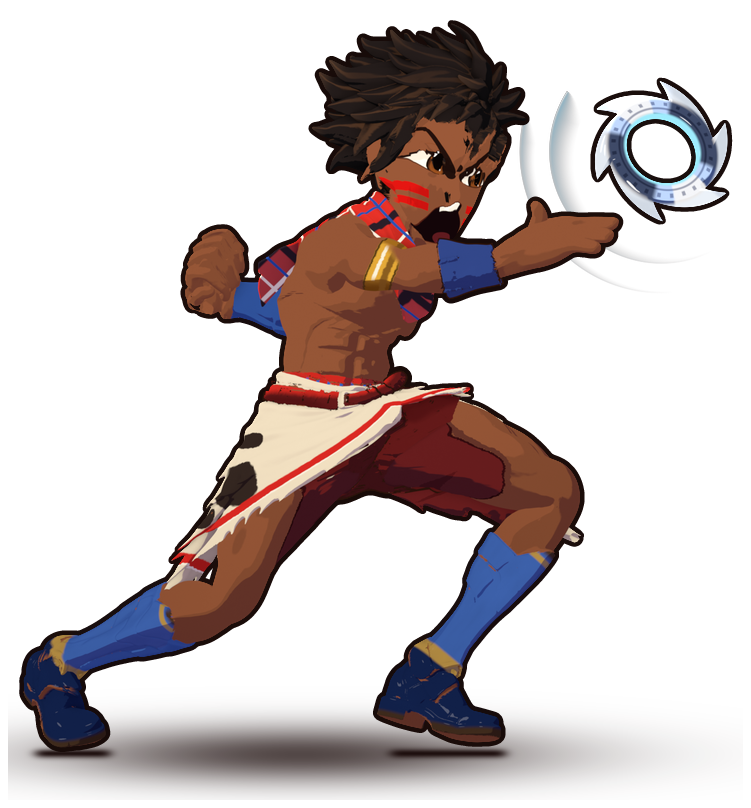
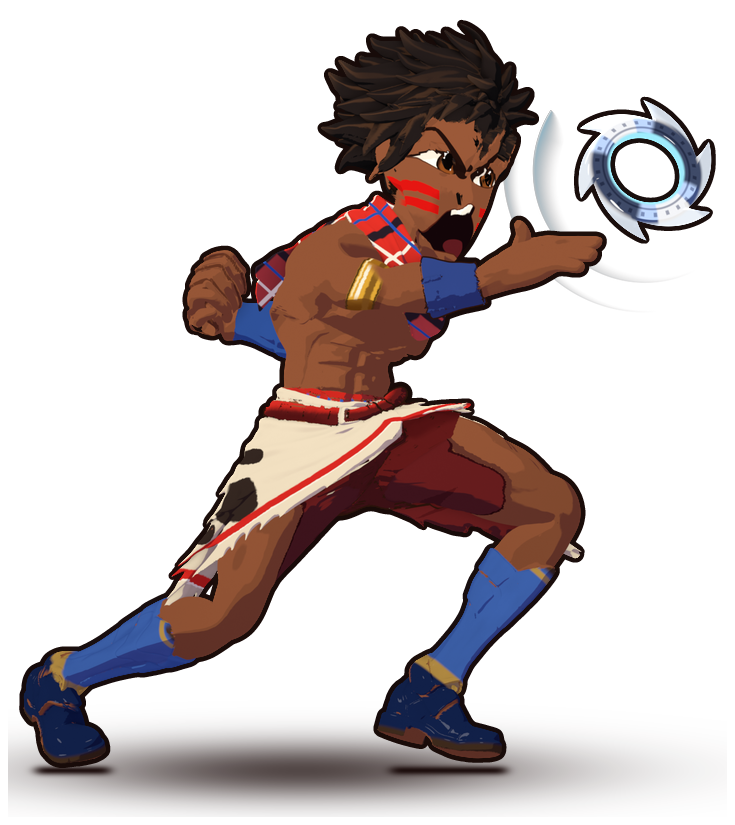
Hero key art k34 (won its A/B against k27 with both blind judges): a package of two changes that had each split the judges. The build: chest and lats about 20% wider and deeper, a less pinched waist, the spine 6% longer, longer collarbones, a thicker neck and forearms, with the upper arms kept at th

Changed region(s): [[0.0299, 0.0, 0.9878, 0.9592], [0.0599, 0.8663, 0.1497, 0.9592], [0.5088, 0.9282, 0.5388, 0.9592]]

diff --git a/New/tools/art/blender/hero_toon_aaa.py b/New/tools/art/blender/hero_toon_aaa.py
@@ -157,6 +157,12 @@ HEM_W = 0.0024
 HEM_SHADOW = 0.0055
 WRAP_FOLD = ((-0.05, -0.035), (0.035, -0.08))
 WRAP_FOLD_W = 0.0065
+## (key art k33, "the back fist a brown lump with fur-like smudges, no finger or knuckle planes: a rock, a mitten"; "four
+## clear finger blocks and a thumb wrap, a crisp shadow under the knuckles") the back (left) fist in the skin's clean
+## language: its surface smoothed (the proxy), lit through the skin's crisp stops, a dark break where one finger meets the next
+## and round the thumb (hero_render.py key_skin_normals(): the "fist_gap" attribute from the skin weights)
+FIST_BREAK = (0.5, 0.62)
+FIST_BREAK_TONE = (0.34, 0.27, 0.3)
 WRAP_STRAP = (0.07, 0.032, 0.016)  ## (key art k9, "plastic socks") the shin guards' binding straps, dark leather
 GUARD_BLUE = (0.045, 0.12, 0.42)  ## (k11) the shin guard, a lighter blue
 BOOT_NAVY = (0.006, 0.016, 0.075)  ## and the boot under it, a dark navy leather
@@ -384,6 +390,22 @@ def build(m, mode="day"):
     if region == "hair":  # the locks: their own terminator, broken per lock (round 15: big locks, "a fuzzy helmet")
         lock = g.noise(P, (9.0, 9.0, 9.0), 0.0, 0.4)  # (key art k3: 16 -> 9, 5-7 big locks, "a pineapple top")
         L = g.math("ADD", L, g.math("MULTIPLY", g.math("SUBTRACT", lock, 0.5), 0.3))  # (k10: k7's grouped locks back)
+    if region == "hand" and mode == "sunset" and BOLD and not flat:
+        # (key art k33) on the back fist only, the light remapped so the hand's own (k11) stops cut it where the skin's crisp
+        # KEY_SKIN_STOPS do (the front hand untouched)
+        left = g.smooth(sepr.outputs["Y"], 0.0, 0.01)
+        s_from, s_to = KEY_SKIN_STOPS, (0.0, 0.06, 0.24, 0.74, 0.8, 1.0)
+        remap = None
+        for i in range(5):
+            seg = g.node("ShaderNodeMapRange")
+            seg.clamp = True
+            seg.inputs["From Min"].default_value = s_from[i]
+            seg.inputs["From Max"].default_value = s_from[i + 1]
+            seg.inputs["To Min"].default_value = 0.0
+            seg.inputs["To Max"].default_value = s_to[i + 1] - s_to[i]
+            g.link(L, seg.inputs["Value"])
+            remap = seg.outputs["Result"] if remap is None else g.math("ADD", remap, seg.outputs["Result"])
+        L = g.math("ADD", L, g.math("MULTIPLY", left, g.math("SUBTRACT", remap, L)))
     deep, shade, mid, lit = BANDS[mode][region]
     ramp = g.node("ShaderNodeValToRGB")
     ramp.color_ramp.interpolation = "LINEAR"
@@ -643,6 +665,12 @@ def build(m, mode="day"):
             colour = g.mix("MIX", white, colour, g.mix("MULTIPLY", 1.0, ramp.outputs["Color"], SCARF_LINES[1]))
             colour = g.mix("MIX", blue, colour, g.mix("MULTIPLY", 1.0, ramp.outputs["Color"], (0.02, 0.08, 0.4)))
             colour = g.mix("MIX", dark, colour, g.mix("MULTIPLY", 1.0, ramp.outputs["Color"], SCARF_LINES[0]))
+    if region == "hand" and mode == "sunset" and BOLD and not flat:
+        # (key art k33) the back fist's finger breaks: a dark line where one finger meets the next and round the thumb
+        att_f = g.node("ShaderNodeAttribute")
+        att_f.attribute_name = "fist_gap"
+        brk = g.math("MULTIPLY", g.smooth(att_f.outputs["Fac"], FIST_BREAK[0], FIST_BREAK[1]), g.smooth(sepr.outputs["Y"], 0.0, 0.01))
+        colour = g.mix("MULTIPLY", g.math("MULTIPLY", brk, 0.85), colour, FIST_BREAK_TONE)
     if region in ("skin", "hand") and mode == "sunset" and BOLD and not flat:
         # (key art k8) the gold armlet round each upper arm: a band across the arm, a bright line round its middle
         (c0, c1, c2), (d0, d1, d2) = ARM_AXIS
@@ -668,6 +696,15 @@ def build(m, mode="day"):
         mid = g.math("MULTIPLY", band, g.smooth(g.math("ABSOLUTE", g.math("SUBTRACT", t, -0.002)), 0.0026, 0.0012))
         shine = g.math("MULTIPLY", mid, g.smooth(edge, 0.4, 0.1))
         colour = g.mix("MIX", g.math("MULTIPLY", shine, 0.95), colour, (1.0, 0.94, 0.75))
+        # (key art k32, "a flat vertical gold rectangle stuck on the bicep like a plaster, no wrap-around") a band round the
+        # cylinder: a bright lip just inside its shoulder-side edge where the light falls on it, and the small shadow it casts on
+        # the skin past its elbow-side edge
+        lip = g.math("MULTIPLY", g.math("MULTIPLY", band, g.math("MULTIPLY", g.smooth(t, -0.0092, -0.0082), g.smooth(t, -0.0058, -0.0068))),
+                     g.smooth(L, 0.3, 0.5))
+        colour = g.mix("MIX", g.math("MULTIPLY", lip, 0.9), colour, (1.0, 0.82, 0.42))
+        near_arm = g.smooth(r2, 0.0016, 0.0012)
+        cast = g.math("MULTIPLY", g.math("MULTIPLY", g.smooth(t, 0.0172, 0.0186), g.smooth(t, 0.0252, 0.0238)), near_arm)
+        colour = g.mix("MULTIPLY", g.math("MULTIPLY", cast, 0.6), colour, (0.42, 0.36, 0.4))
     if region == "belt" and mode == "sunset" and BOLD and hem_d is None:
         # (key art k11, "the maroon shorts one flat block") folds across the cloth under the kilt
         fold_u = g.math("SINE", g.math("MULTIPLY", g.math("ADD", sepr.outputs["Z"], g.math("MULTIPLY", sepr.outputs["Y"], 0.6)), 55.0))

diff --git a/New/tools/art/blender/hero_render.py b/New/tools/art/blender/hero_render.py
@@ -944,8 +944,17 @@ THROW_RING = float(os.environ.get("THROW_RING", "0.19"))  ## (key art k10: 0.14,
 
 KEY_BUILD = {  # (key art k9, "a stringy, narrow torso and thin upper arms against heavy thighs and big boots") the key
     # art's build: bone scales across the bone (x, z; y runs along it), the children not inheriting them
-    "Spine1": (1.12, 1.0, 1.05), "Spine2": (1.26, 1.0, 1.1), "Neck": (1.18, 1.0, 1.18),  # (k11: "shoulders narrow for the head": wider, lats) "LeftArm": (1.2, 1.0, 1.2), "RightArm": (1.2, 1.0, 1.2),
-    "LeftForeArm": (1.1, 1.0, 1.1), "RightForeArm": (1.1, 1.0, 1.1),  # (key art k10: chunkier, "commit to one style")
+    # (key art k31, "narrow shoulders barely wider than the head plus hair, a short narrow torso, a pinched waist, very long
+    # legs: a lanky teen, not a warrior"; "no neck") a heroic V: the chest and lats ~20% wider and deeper, the waist less
+    # pinched, the spine 6% longer (the legs read less long; legs and feet where they were), a thicker neck, the collarbones
+    # longer (the throwing side's thicker too: on the fist side a thicker one pushed a jagged edge into the silhouette),
+    # thicker forearms; the hands, head, pose and costume unchanged
+    # (k9-k30: "Spine1": (1.12, 1.0, 1.05), "Spine2": (1.26, 1.0, 1.1), "Neck": (1.18, 1.0, 1.18), forearms (1.1, 1.0, 1.1))
+    "Spine": (1.15, 1.06, 1.08), "Spine1": (1.35, 1.06, 1.18), "Spine2": (1.5, 1.06, 1.25), "Neck": (1.5, 1.3, 1.4),
+    "LeftShoulder": (1.0, 1.35, 1.0), "RightShoulder": (1.25, 1.6, 1.25),
+    # (key art k32, "the armlet a flat vertical gold rectangle stuck on the bicep like a plaster": the upper arms back to their own
+    # thickness (k31 1.2), which keeps k27's curved band; the forearms a little thicker than k27's (k31 1.32: swollen against them))
+    "LeftForeArm": (1.15, 1.0, 1.15), "RightForeArm": (1.15, 1.0, 1.15),
     "LeftUpLeg": (0.92, 1.0, 0.92), "RightUpLeg": (0.92, 1.0, 0.92), "LeftLeg": (0.94, 1.0, 0.94), "RightLeg": (0.94, 1.0, 0.94),
     "LeftFoot": (0.95, 0.95, 0.95), "RightFoot": (0.95, 0.95, 0.95)}
 
@@ -2082,6 +2091,7 @@ KEY_SKIN = os.path.join(os.path.dirname(bpy.data.filepath), "key_skin_proxy.npy"
 ## forms, the torso smoothed to its mass and given designed forms (two pec domes over a shelf, six ab cushions, an
 ## oblique ridge each side), posed by the same armature
 KEY_SKIN_W = os.path.join(os.path.dirname(bpy.data.filepath), "key_skin_weights.npz")  ## and its skin weights, blurred
+KEY_FIST = os.path.join(os.path.dirname(bpy.data.filepath), "key_fist_gap.npy")  ## (key art k33) the back fist's finger breaks
 
 
 def key_skin_normals():
@@ -2140,6 +2150,16 @@ def key_skin_normals():
         rz = np.zeros(len(MESH.data.vertices) * 3, np.float32); MESH.data.attributes["rest_co"].data.foreach_get("vector", rz)
         wrap = np.zeros(len(MESH.data.vertices), bool); wrap[lv[mi[fid] == names.index("AAA_belt")]] = True
         skin |= wrap & (rz.reshape(-1, 3)[:, 2] < 0.03)
+    if "AAA_hand" in names:  # (key art k33, "a brown lump with fur-like smudges") and his back (left, rest y > 0) fist: a clean surface
+        rz = np.zeros(len(MESH.data.vertices) * 3, np.float32); MESH.data.attributes["rest_co"].data.foreach_get("vector", rz)
+        fist = np.zeros(len(MESH.data.vertices), bool); fist[lv[mi[fid] == names.index("AAA_hand")]] = True
+        skin |= fist & (rz.reshape(-1, 3)[:, 1] > 0.0)
+    gpath = os.environ.get("KEY_FIST", KEY_FIST)
+    if os.path.exists(gpath):  # (key art k33) where one finger meets the next on the fist (from the skin weights), for its breaks
+        gap = np.load(gpath)
+        if len(gap) == len(MESH.data.vertices):
+            att = MESH.data.attributes.get("fist_gap") or MESH.data.attributes.new("fist_gap", "FLOAT", "POINT")
+            att.data.foreach_set("value", gap.astype(np.float32))
     vg = MESH.vertex_groups.get("AAA_key_skin") or MESH.vertex_groups.new(name="AAA_key_skin")
     vg.add(np.nonzero(skin)[0].tolist(), 1.0, "REPLACE")
     md = MESH.modifiers.new("AAA_key_skin", "DATA_TRANSFER")
